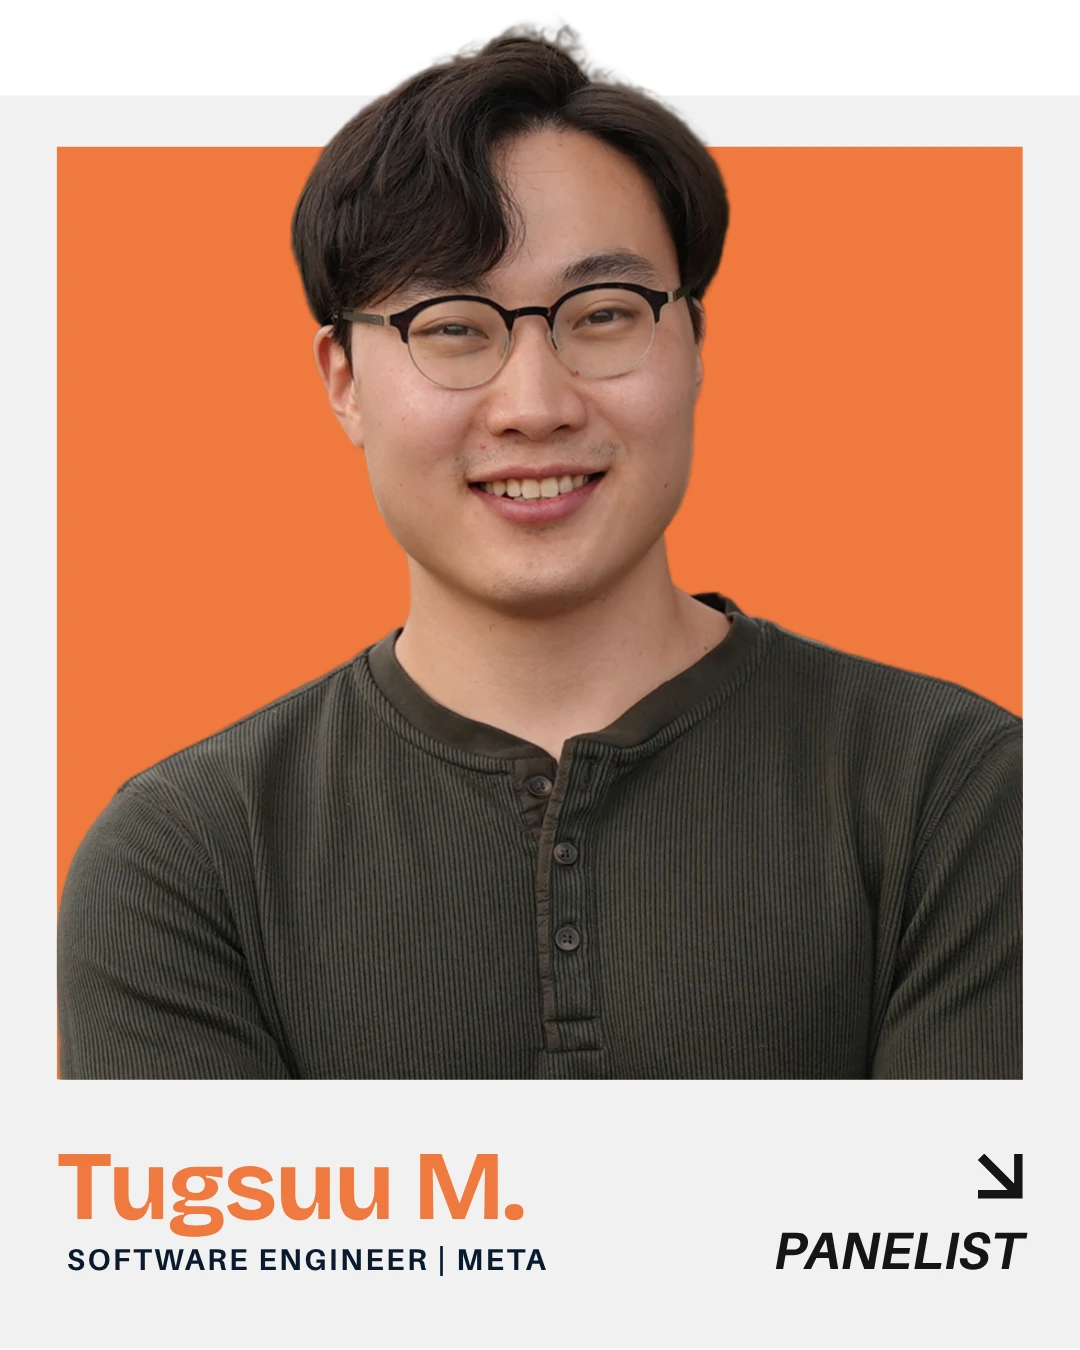
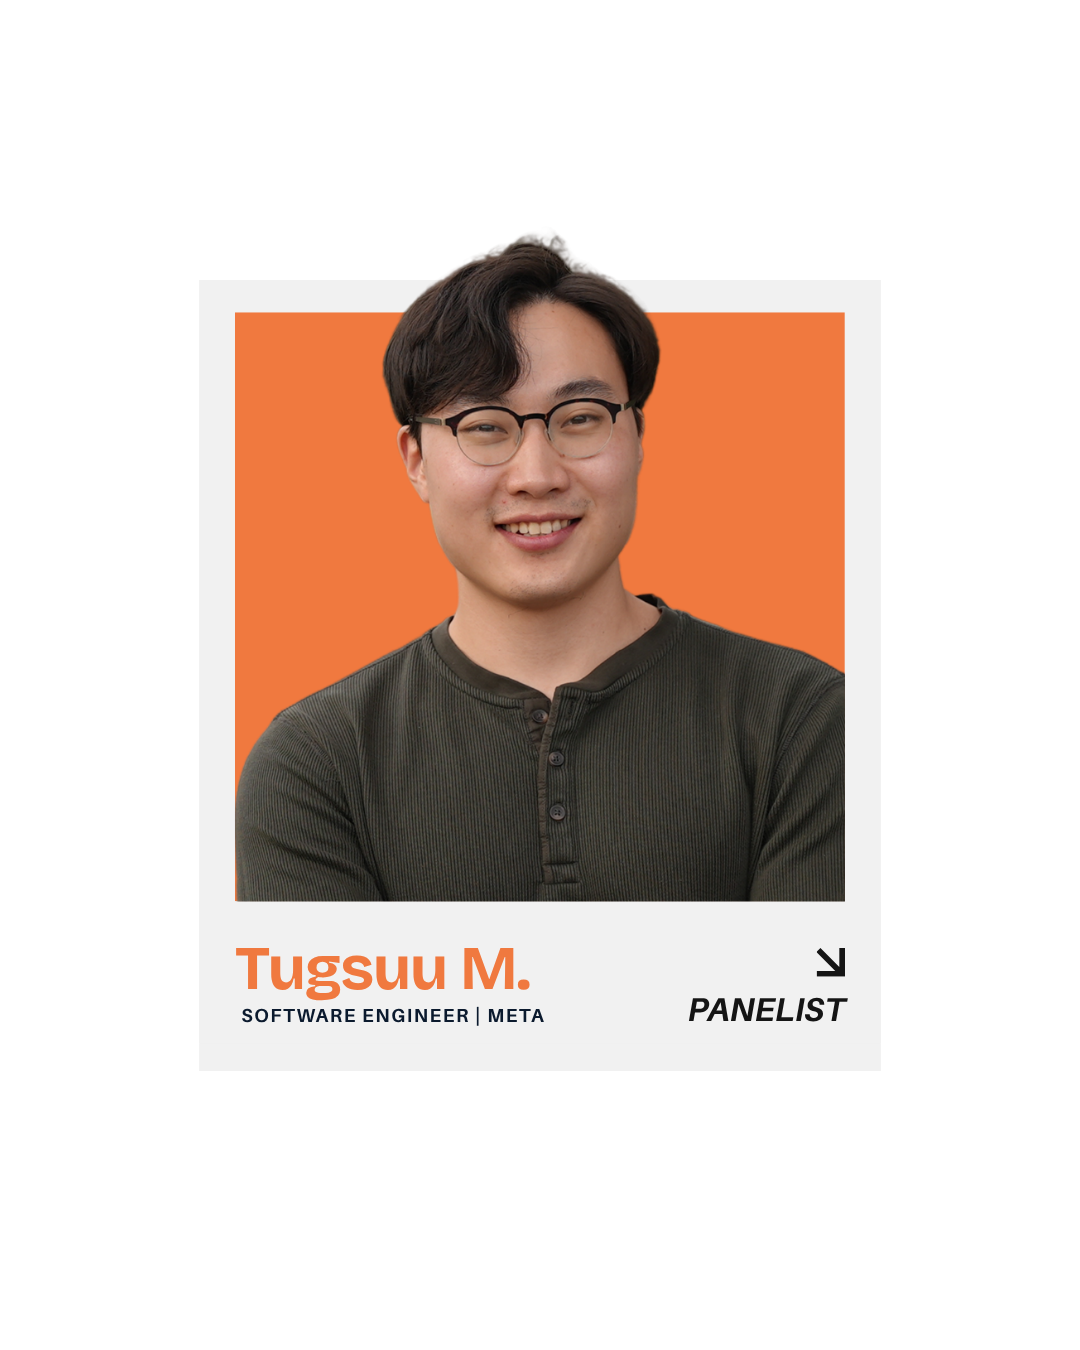
Rebuild Tugsuu's and Yanjaa's cards at template scale
Both arrived cropped full-bleed rather than at the template's frame
position, so they rendered larger than the other cards with their side
margins cut off. Rebuilt from the masters that are at template scale;
all seventeen cards now share the same frame bounds.

Yanjaa's card is the Memory Grandmaster one — it matches what the
schedule has her doing, a panel and the personal finance workshop,
rather than a guest-speaker slot. Her alt text follows the card.

Both were also declared 600x750 in the markup while the files are
600x779, which gave the browser the wrong aspect ratio to reserve.

Claude-Session: https://claude.ai/code/session_01RxyfAX6zc7pmK82cHkvsg3

diff --git a/summit-2026.html b/summit-2026.html
@@ -379,13 +379,13 @@
     </div>
 
     <div class="b26-roster" style="--rot:1deg;--tilt:2deg;--tagc:var(--signal);">
-      <span class="b26-roster-shot"><img src="assets/photos/Summit-2026/cards-2026/tugsuu-guest.webp" width="600" height="750" loading="lazy" alt="Tugsuu M. — Software Engineer, Meta. Panelist." /></span>
+      <span class="b26-roster-shot"><img src="assets/photos/Summit-2026/cards-2026/tugsuu-guest.webp" width="600" height="779" loading="lazy" alt="Tugsuu M. — Software Engineer, Meta. Panelist." /></span>
       <span class="b26-roster-body"><span class="b26-roster-tag">ships the code your AI runs on</span><span class="b26-roster-caret"></span></span>
       <span class="b26-roster-bio" hidden><b>Building the tools behind AI.</b> Tugsuu has been a software engineer at Meta since 2020, where his primary focus has been the development of PyTorch, one of the world's most widely used machine learning frameworks. He has contributed to major PyTorch projects including torch.compile and ExecuTorch, the pieces that make AI models faster to train and possible to run on everyday devices. He holds both a BS and an ME in Computer Science from MIT. On the panel, he'll talk about work and academia in the US, from studying at MIT to building AI infrastructure from the inside as an immigrant in big tech. He's also leading a Friday tour of the Meta office — sign-up available for ticketed attendees.</span>
     </div>
 
     <div class="b26-roster" style="--rot:-1.2deg;--tilt:-2deg;--tagc:var(--hi);">
-      <span class="b26-roster-shot"><img src="assets/photos/Summit-2026/cards-2026/yanjaa-guest.webp" width="600" height="750" loading="lazy" alt="Yanjaa W. — World Memory Champion. Guest Speaker." /></span>
+      <span class="b26-roster-shot"><img src="assets/photos/Summit-2026/cards-2026/yanjaa-guest.webp" width="600" height="779" loading="lazy" alt="Yanjaa W. — World Memory Champion. Guest Speaker." /></span>
       <span class="b26-roster-body"><span class="b26-roster-tag">remembers everything, teaches you how</span><span class="b26-roster-caret"></span></span>
       <span class="b26-roster-bio" hidden><b>Memory, money, and making moves.</b> Yanjaa is an Int'l Grandmaster of Memory and a learning coach who picked up memory techniques as a study tool and graduated from business school two years early. She's ranked 7th in the world, placed 3rd at the World Memory Championships, and holds world records including 212 names and faces memorized in 15 minutes, the entire 328-page IKEA catalogue in a week, and a shuffled deck of cards in 22 seconds. Her work has been featured on Netflix, HBO, CNN, and NBC. On the Friday panel, she joins Boki to talk about building a career and a name for yourself on the global stage, then leads a Sunday workshop on personal finance — the money basics no one teaches you, so you can better prepare for your future.</span>
     </div>

diff --git a/speakers.html b/speakers.html
@@ -307,7 +307,7 @@
     </div>
 
     <div class="sp-card" style="--rot:1deg;--tilt:2deg;--tagc:var(--signal);">
-      <div class="sp-shot"><img src="assets/photos/Summit-2026/cards-2026/tugsuu-guest.webp" width="600" height="750" loading="lazy" alt="Tugsuu M. — Software Engineer, Meta. Panelist." /></div>
+      <div class="sp-shot"><img src="assets/photos/Summit-2026/cards-2026/tugsuu-guest.webp" width="600" height="779" loading="lazy" alt="Tugsuu M. — Software Engineer, Meta. Panelist." /></div>
       <div class="sp-body">
         <button class="sp-toggle" type="button" aria-expanded="false" aria-controls="bio-tugsuu">
           <span class="sp-tag">ships the code your AI runs on</span><span class="sp-caret" aria-hidden="true"></span>
@@ -319,7 +319,7 @@
     </div>
 
     <div class="sp-card" style="--rot:-1.2deg;--tilt:-2deg;--tagc:var(--hi);">
-      <div class="sp-shot"><img src="assets/photos/Summit-2026/cards-2026/yanjaa-guest.webp" width="600" height="750" loading="lazy" alt="Yanjaa W. — World Memory Champion. Guest Speaker." /></div>
+      <div class="sp-shot"><img src="assets/photos/Summit-2026/cards-2026/yanjaa-guest.webp" width="600" height="779" loading="lazy" alt="Yanjaa W. — Memory Grandmaster and Learning Coach. Panelist and workshop." /></div>
       <div class="sp-body">
         <button class="sp-toggle" type="button" aria-expanded="false" aria-controls="bio-yanjaa">
           <span class="sp-tag">remembers everything, teaches you how</span><span class="sp-caret" aria-hidden="true"></span>
